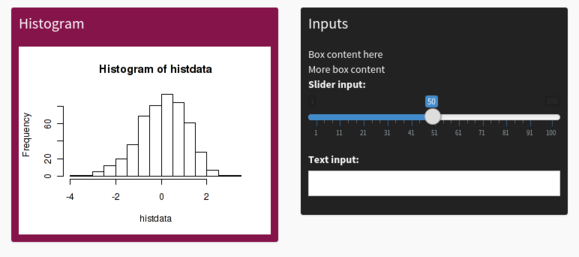
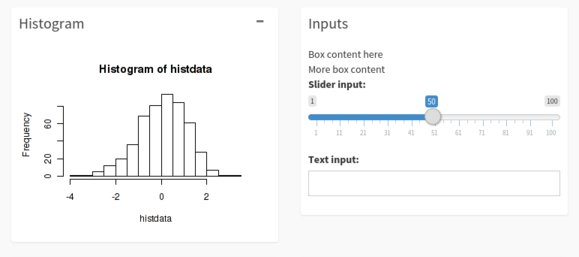
Add boxes without color bar

diff --git a/structure.html b/structure.html
@@ -367,6 +367,20 @@ body &lt;-<span class="st"> </span><span class="kw">dashboardBody</span>(
   <span class="kw">textInput</span>(<span class="st">&quot;text&quot;</span>, <span class="st">&quot;Text input:&quot;</span>)
 )</code></pre>
 <p><img src="images/body-boxes-header-2.png" alt="Solid header and collapse" /></p>
+<p>If you want the boxes to not have a gray or colored bar on top, use <code>solidHeader=TRUE</code> and don’t give a value for <code>status</code>:</p>
+<pre class="sourceCode r"><code class="sourceCode r"><span class="kw">box</span>(
+  <span class="dt">title =</span> <span class="st">&quot;Histogram&quot;</span>, <span class="dt">solidHeader =</span> <span class="ot">TRUE</span>,
+  <span class="dt">collapsible =</span> <span class="ot">TRUE</span>,
+  <span class="kw">plotOutput</span>(<span class="st">&quot;plot3&quot;</span>, <span class="dt">height =</span> <span class="dv">250</span>)
+)
+
+<span class="kw">box</span>(
+  <span class="dt">title =</span> <span class="st">&quot;Inputs&quot;</span>, <span class="dt">solidHeader =</span> <span class="ot">TRUE</span>,
+  <span class="st">&quot;Box content here&quot;</span>, <span class="kw">br</span>(), <span class="st">&quot;More box content&quot;</span>,
+  <span class="kw">sliderInput</span>(<span class="st">&quot;slider&quot;</span>, <span class="st">&quot;Slider input:&quot;</span>, <span class="dv">1</span>, <span class="dv">100</span>, <span class="dv">50</span>),
+  <span class="kw">textInput</span>(<span class="st">&quot;text&quot;</span>, <span class="st">&quot;Text input:&quot;</span>)
+)</code></pre>
+<p><img src="images/body-boxes-header-3.png" alt="No colored bar" /></p>
 <p>Finally, it’s also possible to have a solid background, with the <code>background</code> option. The different possible colors are shown <a href="appearance.html#statuses-and-colors">here</a>.</p>
 <pre class="sourceCode r"><code class="sourceCode r"><span class="kw">box</span>(
   <span class="dt">title =</span> <span class="st">&quot;Histogram&quot;</span>, <span class="dt">background =</span> <span class="st">&quot;maroon&quot;</span>, <span class="dt">solidHeader =</span> <span class="ot">TRUE</span>,
@@ -379,7 +393,7 @@ body &lt;-<span class="st"> </span><span class="kw">dashboardBody</span>(
   <span class="kw">sliderInput</span>(<span class="st">&quot;slider&quot;</span>, <span class="st">&quot;Slider input:&quot;</span>, <span class="dv">1</span>, <span class="dv">100</span>, <span class="dv">50</span>),
   <span class="kw">textInput</span>(<span class="st">&quot;text&quot;</span>, <span class="st">&quot;Text input:&quot;</span>)
 )</code></pre>
-<p><img src="images/body-boxes-header-3.png" alt="Solid background" /></p>
+<p><img src="images/body-boxes-header-4.png" alt="Solid background" /></p>
 <div id="valuebox" class="section level3">
 <h3>valueBox</h3>
 <p>There is a special kind of box that is used for displaying simple numeric or text values, with an icon. Here are some examples:</p>
